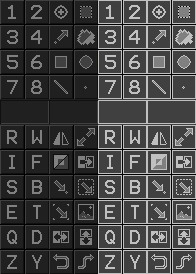
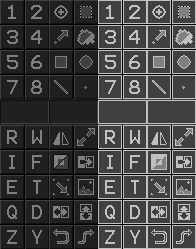
Got rid of one row of tools I dont think Ill implement

diff --git a/image code/imageCutOut.py b/image code/imageCutOut.py
@@ -5,16 +5,16 @@ import os
 sheet = Image.open('toolbar0Sheet.png')
 sheetWidth, sheetHeight = sheet.size
 
-for iteration in range(11):
+for iteration in range(10):
   sheet.crop((98,(iteration*25),98+24, 24+(iteration*25))).save('v'+str(iteration*2).zfill(2)+'.PNG','png')
 
-for iteration in range(11):
+for iteration in range(10):
   sheet.crop((123,(iteration*25),123+24, 24+(iteration*25))).save('v'+str((iteration*2)+1).zfill(2)+'.PNG','png')
 
-for iteration in range(11):
+for iteration in range(10):
   sheet.crop((147,(iteration*25),147+24, 24+(iteration*25))).save('u'+str(iteration*2).zfill(2)+'.PNG','png')
 
-for iteration in range(11):
+for iteration in range(10):
   sheet.crop((172,(iteration*25),172+24, 24+(iteration*25))).save('u'+str((iteration*2)+1).zfill(2)+'.PNG','png')
 
 sheet.crop((0,0,49,sheetHeight)).save('toolbar0u.PNG','png')
